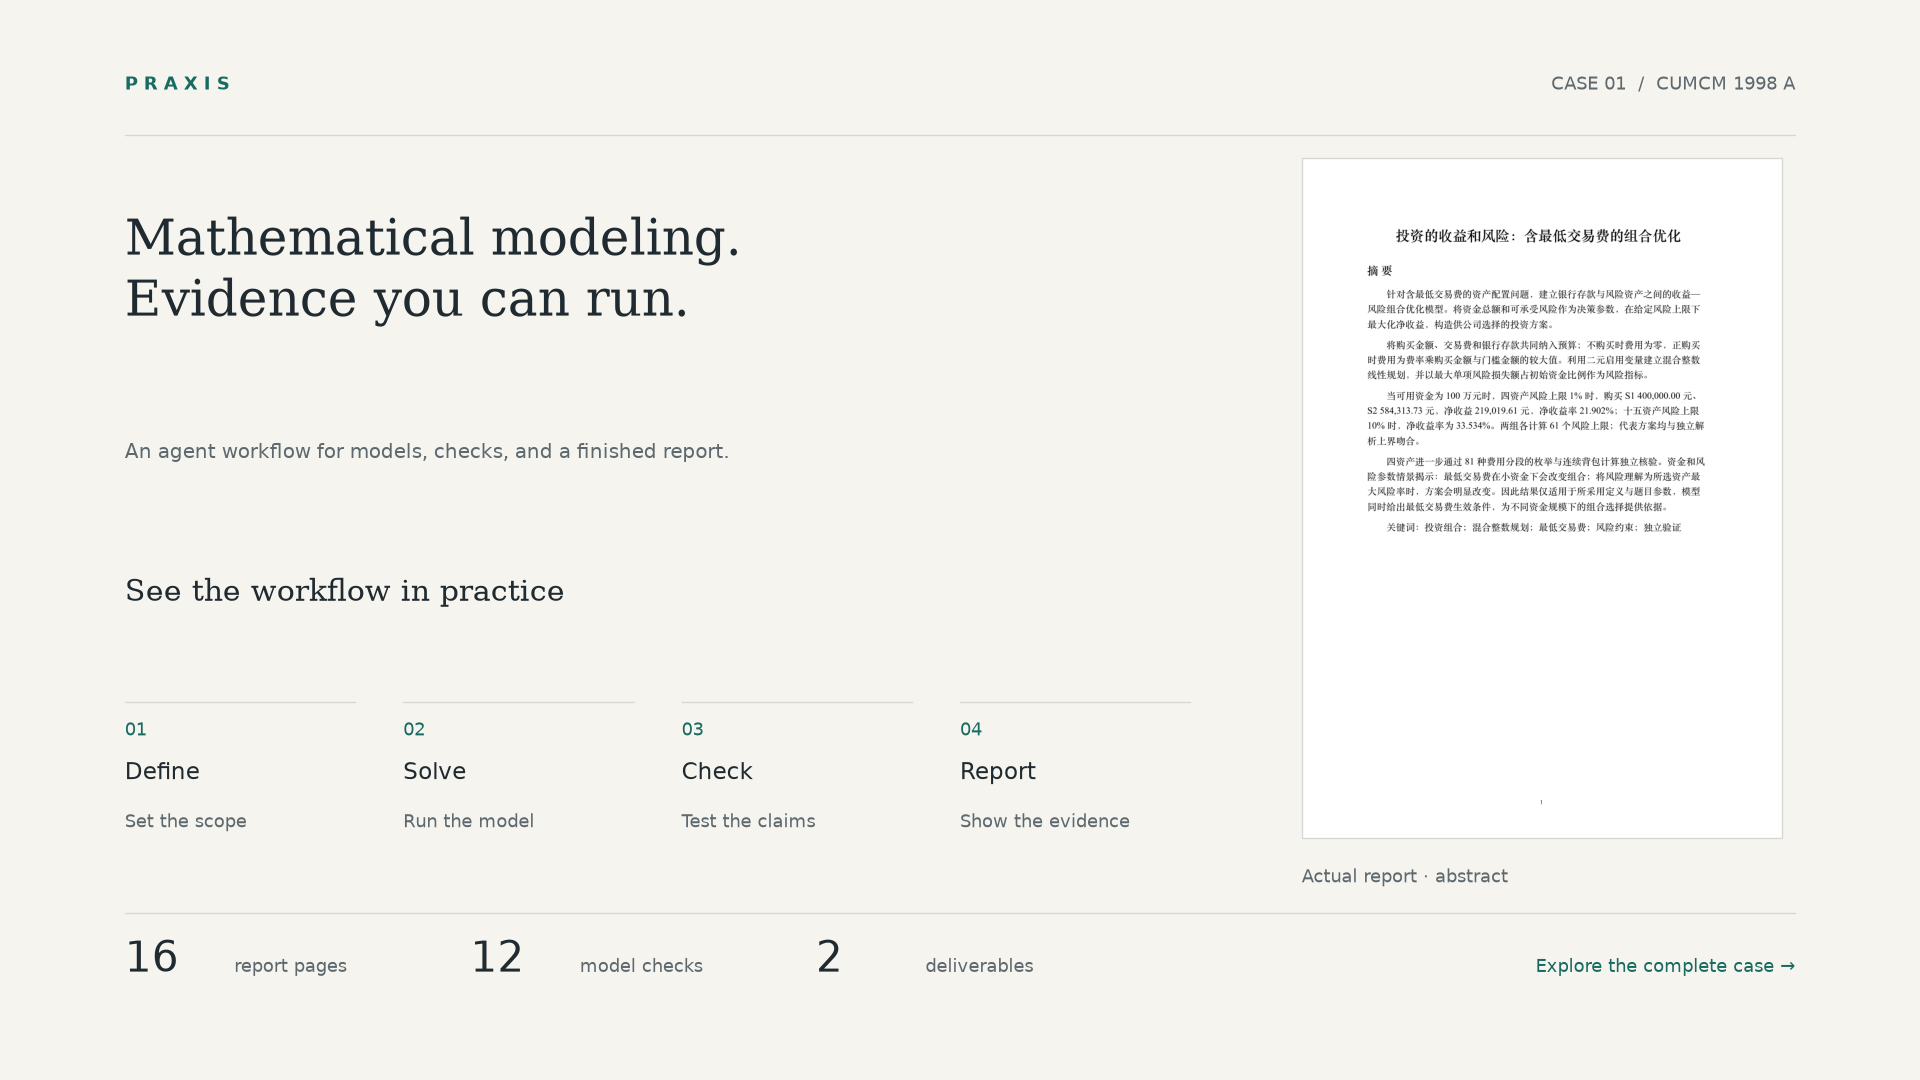
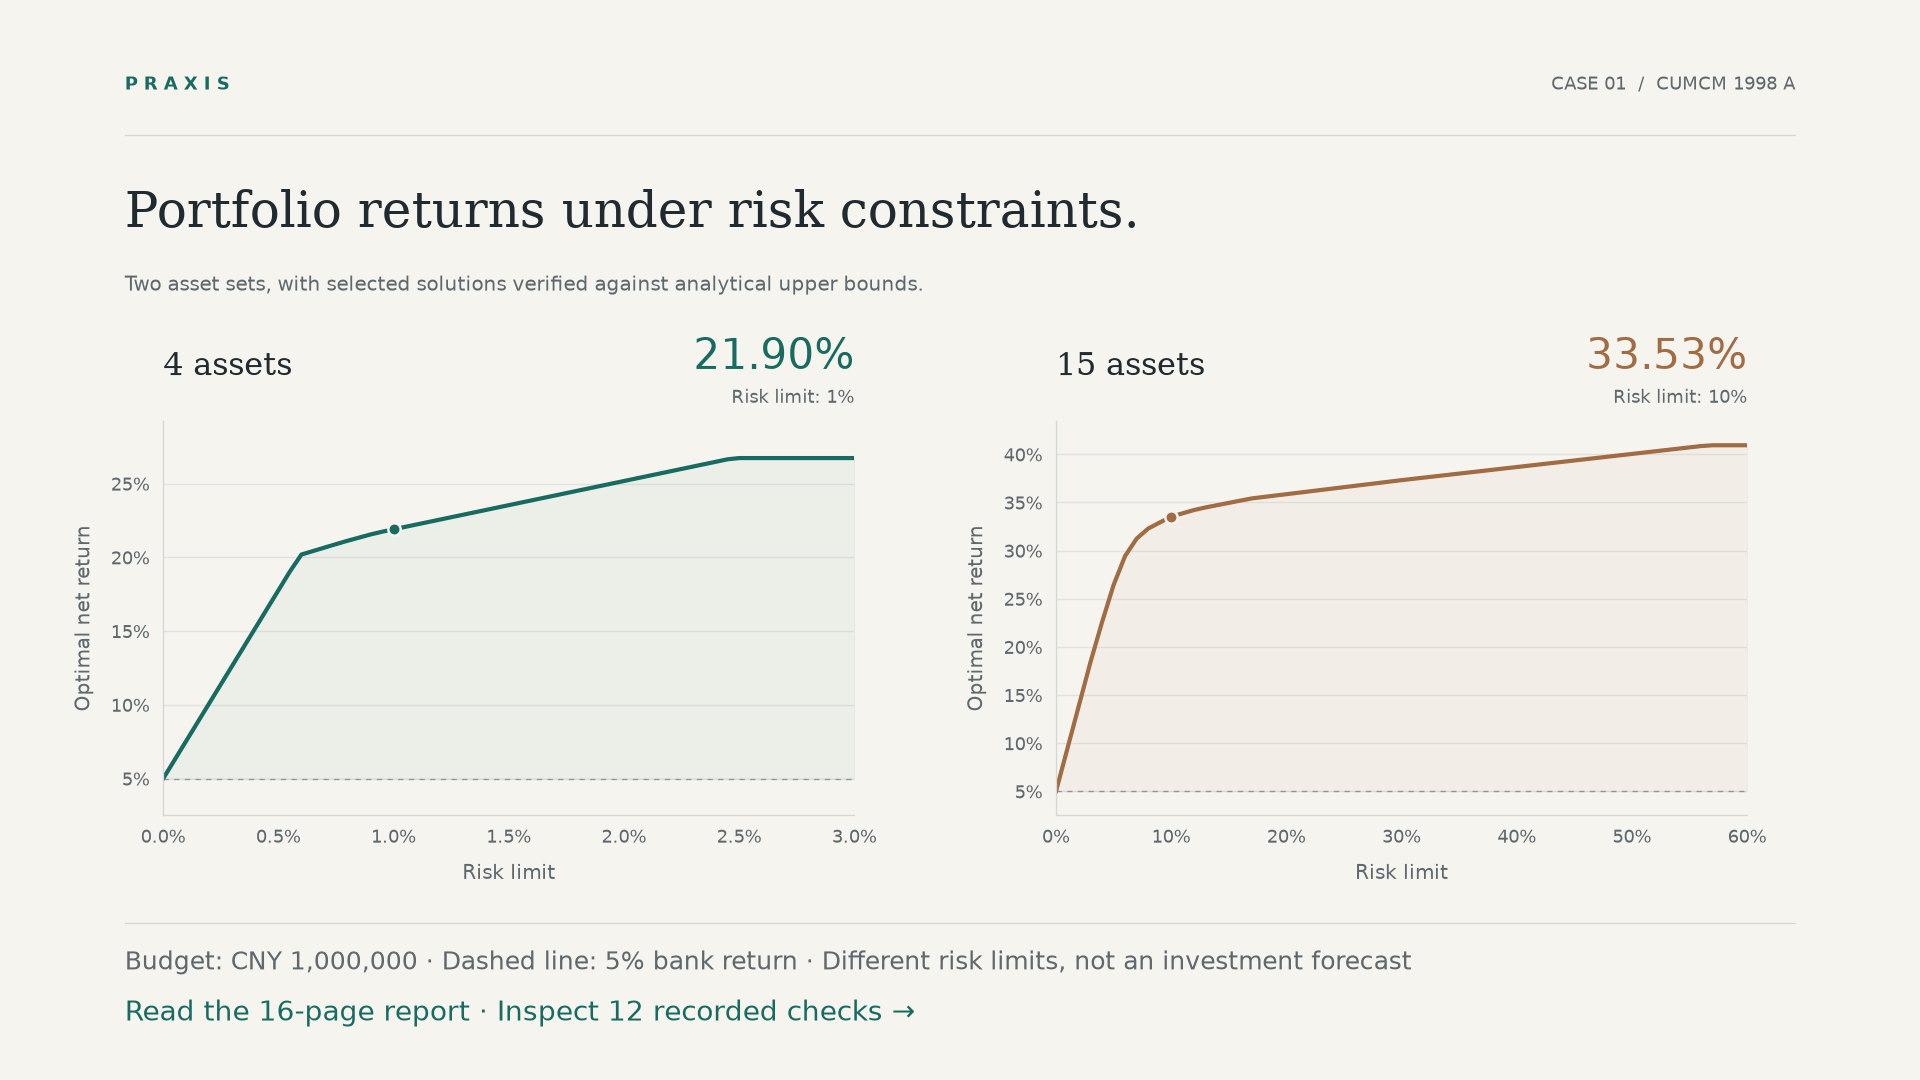
Align CUMCM homepage image with MCM and simplify nav
Use the risk-return chart as the CUMCM homepage overview, matching the
MCM result-chart layout; drop the obsolete cover script. Shorten the
top navigation and merge the two case links into one.

diff --git a/demos/cumcm-1998-a/assets/build_preview.py b/demos/cumcm-1998-a/assets/build_preview.py
@@ -12,9 +12,9 @@ from design.style import showcase_style, TOKENS
 results = json.loads((root/'reproduce/reference/results.json').read_text())
 
 with showcase_style() as s:
-    for lang in ['zh', 'en']:
+    for lang, home in [(l, h) for h in (False, True) for l in ('zh', 'en')]:
         fig, canvas = s.canvas()
-        s.header(canvas, 'CASE 01  /  RESULTS')
+        s.header(canvas, 'CASE 01  /  CUMCM 1998 A' if home else 'CASE 01  /  RESULTS')
         s.text(canvas, .065, .825, '风险的边界，收益的选择。' if lang == 'zh' else
                'Portfolio returns under risk constraints.', lang=lang, role='display', size=30)
         s.text(canvas, .065, .745, '两组资产的最优方案与风险收益曲线，计算结果经过独立核验。' if lang == 'zh' else
@@ -49,9 +49,17 @@ with showcase_style() as s:
                 tick.set_fontproperties(s.font(lang)); tick.set_fontsize(11)
             ax.grid(axis='y', color=s.c['ink'], alpha=TOKENS['chart']['grid_alpha'])
         canvas.plot([.065,.935], [.145,.145], color=s.c['rule'], lw=.8)
-        s.text(canvas, .065, .12, '资金 100 万元 · 虚线为 5% 银行收益率 · 两组采用不同风险上限' if lang == 'zh' else
-               'Budget: CNY 1,000,000 · Dashed line: 5% bank return · Different risk limits across groups', lang=lang, role='note')
-        s.text(canvas, .065, .075, '风险口径：最大单项风险损失额 ÷ 总资金。模型结果不代表实际投资收益预测。' if lang == 'zh' else
-               'Risk = maximum single-asset loss / budget. Conditional model results, not investment forecasts.',
-               lang=lang, role='note', color='muted')
-        s.save(fig, root/'assets'/('risk-return-zh.png' if lang == 'zh' else 'risk-return.png'))
+        if home:
+            s.text(canvas, .065, .12, '资金 100 万元 · 虚线为 5% 银行收益率 · 两组风险上限不同，非实际投资预测' if lang == 'zh' else
+                   'Budget: CNY 1,000,000 · Dashed line: 5% bank return · Different risk limits, not an investment forecast', lang=lang, role='note', color='muted', size=15)
+            s.text(canvas, .065, .075, '16 页完整报告 · 12 项检查 · 查看国赛 Demo →' if lang == 'zh' else
+                   'Read the 16-page report · Inspect 12 recorded checks →', lang=lang, role='body', size=17, color='accent')
+            name = 'overview-zh.png' if lang == 'zh' else 'overview-en.png'
+        else:
+            s.text(canvas, .065, .12, '资金 100 万元 · 虚线为 5% 银行收益率 · 两组采用不同风险上限' if lang == 'zh' else
+                   'Budget: CNY 1,000,000 · Dashed line: 5% bank return · Different risk limits across groups', lang=lang, role='note')
+            s.text(canvas, .065, .075, '风险口径：最大单项风险损失额 ÷ 总资金。模型结果不代表实际投资收益预测。' if lang == 'zh' else
+                   'Risk = maximum single-asset loss / budget. Conditional model results, not investment forecasts.',
+                   lang=lang, role='note', color='muted')
+            name = 'risk-return-zh.png' if lang == 'zh' else 'risk-return.png'
+        s.save(fig, root/'assets'/name)

diff --git a/README.en.md b/README.en.md
@@ -12,7 +12,7 @@ Build a model, challenge its conclusions, and deliver the evidence.
 
 [简体中文](README.md) · **English**
 
-[CUMCM case](demos/cumcm-1998-a/README.en.md) · [MCM case](demos/mcm-2016-a/README.en.md) · [Quick start](#quick-start) · [Capabilities](#capabilities) · [Agent compatibility](#agent-compatibility) · [Validation and limitations](#validation-and-limitations)
+[Modeling cases](#two-complete-cases-to-explore) · [Quick start](#quick-start) · [Capabilities](#capabilities) · [Compatibility](#agent-compatibility) · [Validation](#validation-and-limitations)
 
 </div>
 
@@ -38,7 +38,7 @@ The competition cases make the full workflow inspectable; they do not define the
 <td width="50%" valign="top"><strong>MCM · A Hot Bath</strong><br>2016 MCM A</td>
 </tr>
 <tr>
-<td width="50%" valign="top"><a href="demos/cumcm-1998-a/README.en.md"><img src="demos/cumcm-1998-a/assets/overview-en.png" alt="Investment case: allocation, validation, and a complete report" width="100%"></a></td>
+<td width="50%" valign="top"><a href="demos/cumcm-1998-a/README.en.md"><img src="demos/cumcm-1998-a/assets/overview-en.png" alt="Investment case: optimal net return across risk limits for two asset sets" width="100%"></a></td>
 <td width="50%" valign="top"><a href="demos/mcm-2016-a/README.en.md"><img src="demos/mcm-2016-a/assets/overview-en.png" alt="Bath case: spatial temperatures, control, and energy bounds" width="100%"></a></td>
 </tr>
 <tr>

diff --git a/README.md b/README.md
@@ -12,7 +12,7 @@
 
 **简体中文** · [English](README.en.md)
 
-[国赛 Demo](demos/cumcm-1998-a/README.md) · [美赛 Demo](demos/mcm-2016-a/README.md) · [快速开始](#快速开始) · [能力概览](#能力概览) · [Agent 兼容](#agent-兼容) · [验证与边界](#验证与边界)
+[数学建模案例](#两个完整案例两种建模问题) · [快速开始](#快速开始) · [能力](#能力概览) · [兼容](#agent-兼容) · [验证](#验证与边界)
 
 </div>
 
@@ -38,7 +38,7 @@
 <td width="50%" valign="top"><strong>美赛 · A Hot Bath</strong><br>2016 MCM A</td>
 </tr>
 <tr>
-<td width="50%" valign="top"><a href="demos/cumcm-1998-a/README.md"><img src="demos/cumcm-1998-a/assets/overview-zh.png" alt="国赛案例：投资组合、独立核验与完整报告" width="100%"></a></td>
+<td width="50%" valign="top"><a href="demos/cumcm-1998-a/README.md"><img src="demos/cumcm-1998-a/assets/overview-zh.png" alt="国赛案例：两组资产的风险上限与最优净收益率" width="100%"></a></td>
 <td width="50%" valign="top"><a href="demos/mcm-2016-a/README.md"><img src="demos/mcm-2016-a/assets/overview-zh.png" alt="美赛案例：空间水温、补水策略与能量证据" width="100%"></a></td>
 </tr>
 <tr>
